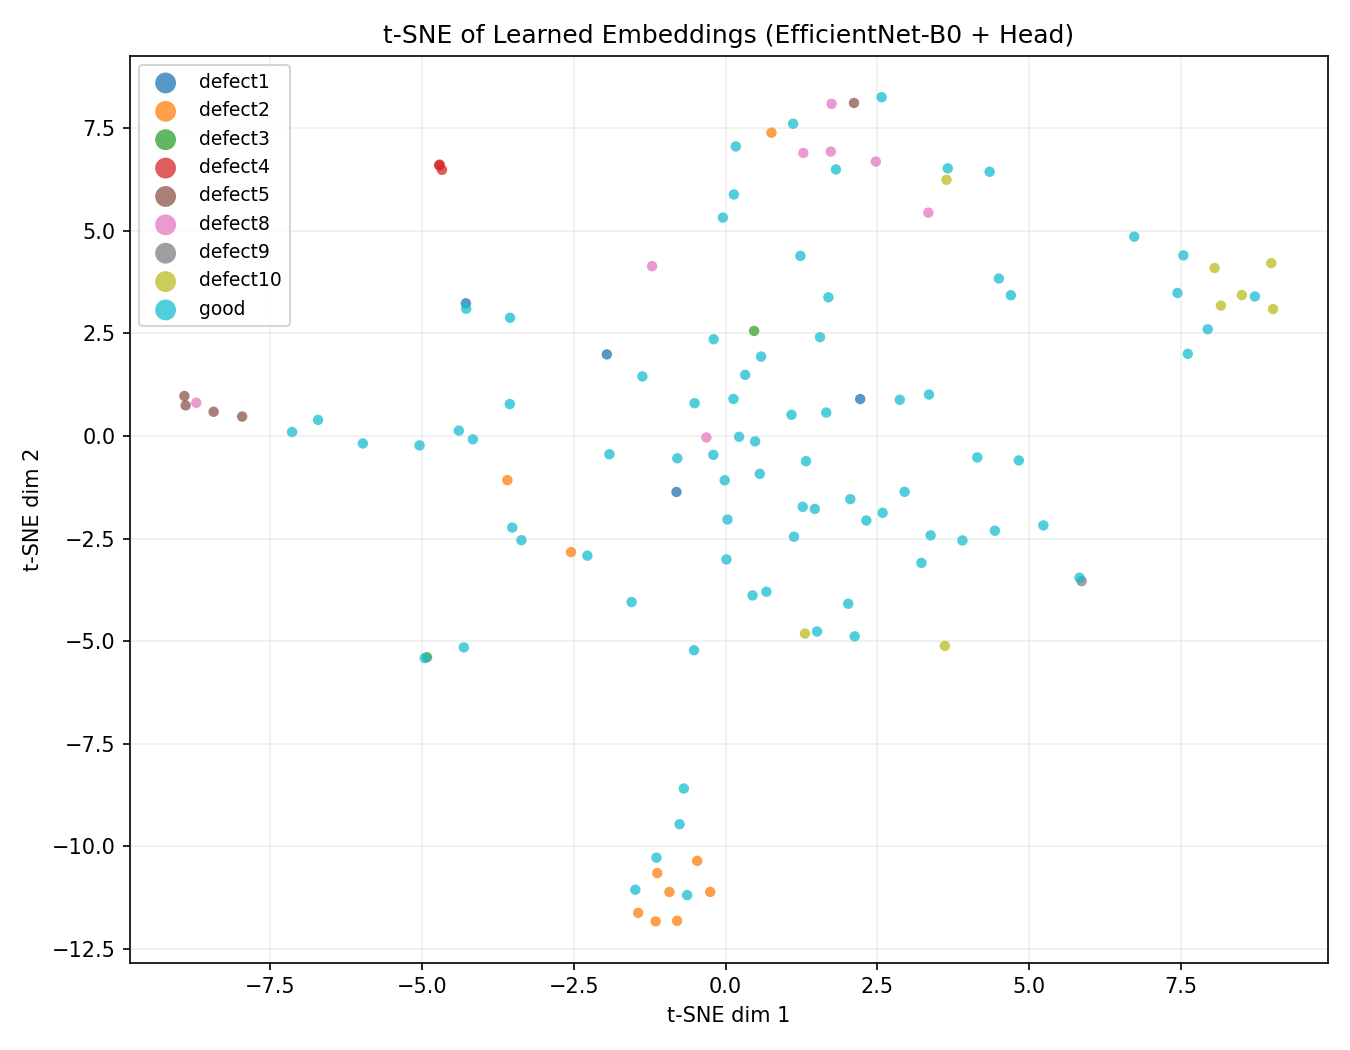
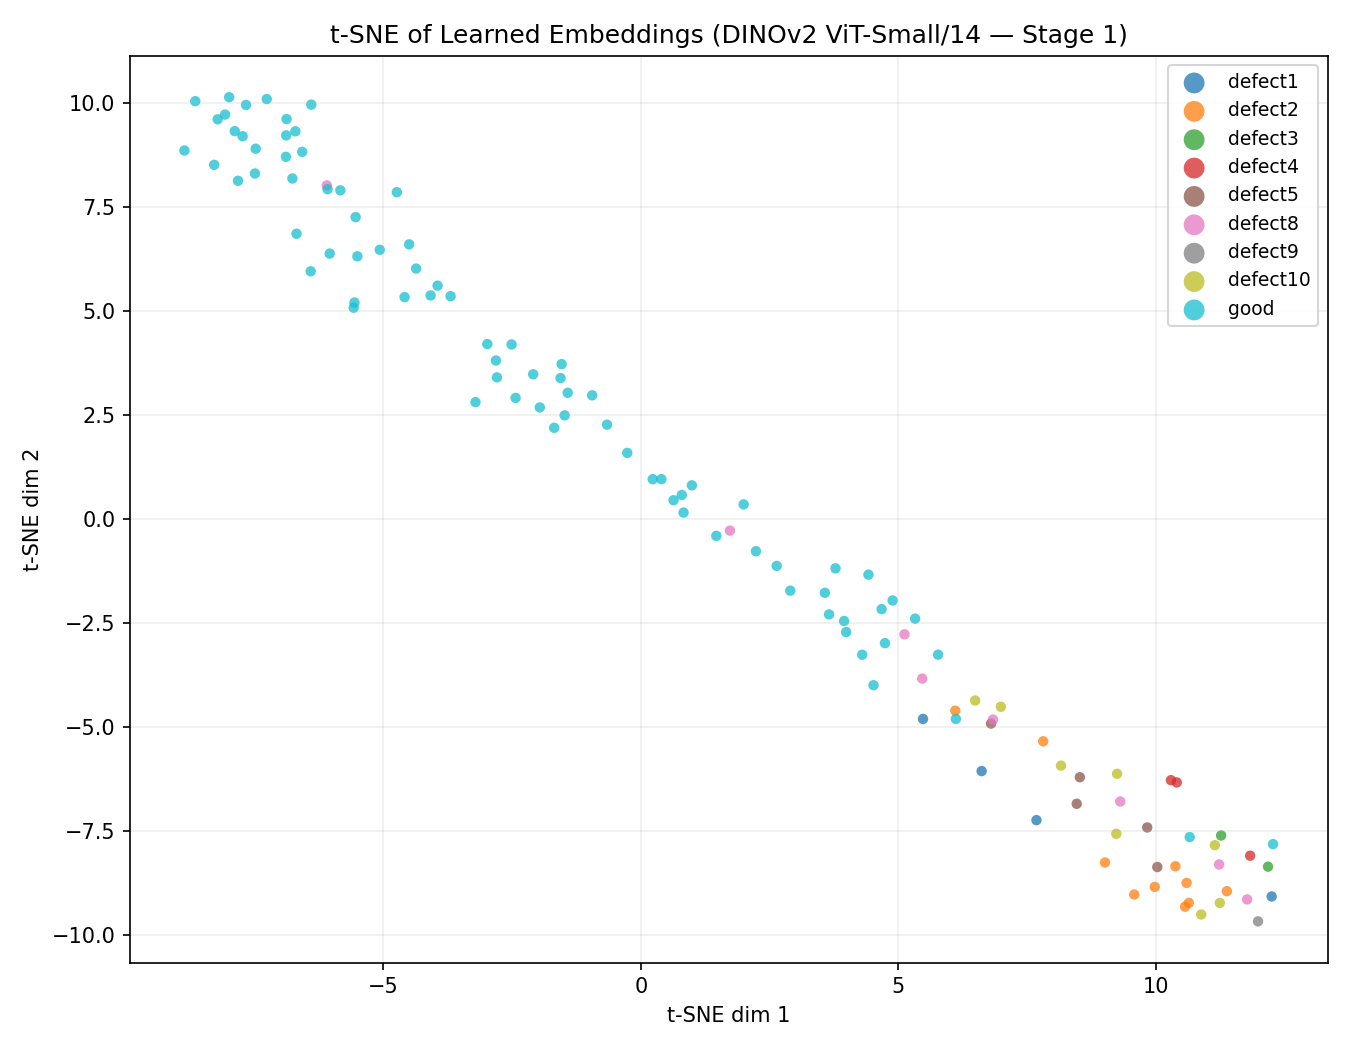
Regenerate all evaluation plots from DINOv2 cascade model
evaluate.py: add --cascade and --no-tta flags. New cascade path loads
model_stage1.pth + model_stage2.pth, reproduces exact train val split,
runs two-stage inference with optional 8x TTA, and builds probability
matrix for ROC curves. Auto-detects backbone (DINOv2/ViT/EfficientNet)
from checkpoint key names.

plots 2–6 and metrics.json now reflect DINOv2 cascade results
(87.43% overall, 0.8808 balanced) — previously showed stale
EfficientNet single-model outputs.

diff --git a/solution/evaluate.py b/solution/evaluate.py
@@ -4,7 +4,7 @@ evaluate.py  –  Full evaluation suite
                 ASU / Intel Semiconductor Solutions Challenge 2026
 
 Produces all competition deliverable plots:
-  plot1_training_history.png          (training curves)
+  plot1_training_history.png          (training curves — single model only)
   plot2_confusion_matrix.png          (normalised confusion matrix)
   plot3_class_accuracy_vs_occurrence.png (deliverable 2)
   plot4_few_shot_learning_curve.png   (deliverable 4)
@@ -13,8 +13,10 @@ Produces all competition deliverable plots:
 
 Usage
 ─────
-  python evaluate.py                         # uses default checkpoint + dataset
+  python evaluate.py                             # single EfficientNet model
   python evaluate.py --checkpoint output/model_best.pth
+  python evaluate.py --cascade                   # DINOv2 two-stage cascade (best)
+  python evaluate.py --cascade --no-tta          # cascade without TTA (faster)
 """
 
 import sys, random, json
@@ -42,13 +44,22 @@ sys.path.insert(0, str(Path(__file__).parent))
 from model import DefectClassifier, compute_prototypes, EMBED_DIM
 
 # ─────────────────────────────────────────────────────────────────────────────
-DATASET_DIR = Path(__file__).parent.parent / "Dataset"
-CHECKPOINT  = Path(__file__).parent / "output" / "model_best.pth"
-OUTPUT_DIR  = Path(__file__).parent / "output"
-IMG_SIZE    = 224
-SEED        = 42
+DATASET_DIR  = Path(__file__).parent.parent / "Dataset"
+CHECKPOINT   = Path(__file__).parent / "output" / "model_best.pth"
+CKPT_STAGE1  = Path(__file__).parent / "output" / "model_stage1.pth"
+CKPT_STAGE2  = Path(__file__).parent / "output" / "model_stage2.pth"
+OUTPUT_DIR   = Path(__file__).parent / "output"
+IMG_SIZE     = 224
+SEED         = 42
 _MEAN = [0.485, 0.456, 0.406]
 _STD  = [0.229, 0.224, 0.225]
+
+# Class ordering used by the cascade (matches train_cascade.py)
+_CASCADE_CLASSES  = ["defect1", "defect2", "defect3", "defect4", "defect5",
+                     "defect8", "defect9", "defect10", "good"]
+_DEFECT_CLASSES   = [c for c in _CASCADE_CLASSES if c != "good"]
+_GOOD_IDX_ALL     = _CASCADE_CLASSES.index("good")   # 8
+_DEFECT_IDX_BIN   = 1                                  # Stage 1: good=0, defective=1
 
 random.seed(SEED); np.random.seed(SEED); torch.manual_seed(SEED)
 
@@ -65,6 +76,137 @@ class SimpleDataset(Dataset):
     def __getitem__(self, i):
         p, l = self.samples[i]
         return self.tf(Image.open(p).convert("RGB")), l
+
+
+def _make_tta_transforms():
+    """8 deterministic TTA variants: 4 rotations × 2 flips (matches classify.py)."""
+    variants = []
+    for angle in [0, 90, 180, 270]:
+        for flip in [False, True]:
+            ops = [transforms.Resize((IMG_SIZE, IMG_SIZE))]
+            if angle:
+                ops.append(transforms.Lambda(lambda img, a=angle: img.rotate(a)))
+            if flip:
+                ops.append(transforms.RandomHorizontalFlip(p=1.0))
+            ops.extend([transforms.ToTensor(), transforms.Normalize(_MEAN, _STD)])
+            variants.append(transforms.Compose(ops))
+    return variants
+
+
+def _auto_load_model(num_classes, state_dict, device):
+    """Detect backbone from checkpoint key names and load the correct model class."""
+    keys = "".join(state_dict.keys())
+    if "backbone.cls_token" in keys:
+        if "backbone.blocks.0.ls1" in keys:
+            from model_dinov2 import DINOv2DefectClassifier
+            m = DINOv2DefectClassifier(num_classes, EMBED_DIM).to(device)
+        else:
+            from model_vit import ViTDefectClassifier
+            m = ViTDefectClassifier(num_classes, EMBED_DIM, mae_ckpt=None).to(device)
+    else:
+        m = DefectClassifier(num_classes, EMBED_DIM).to(device)
+    m.load_state_dict(state_dict)
+    m.eval()
+    return m
+
+
+def load_cascade_and_data(stage1_path=CKPT_STAGE1, stage2_path=CKPT_STAGE2):
+    """Load Stage 1 + Stage 2 cascade models and reproduce the training val split."""
+    device = torch.device("cuda" if torch.cuda.is_available() else "cpu")
+
+    ckpt1 = torch.load(stage1_path, map_location=device, weights_only=False)
+    model1 = _auto_load_model(2, ckpt1["model_state"], device)
+    threshold = ckpt1.get("threshold", 0.65)
+
+    ckpt2 = torch.load(stage2_path, map_location=device, weights_only=False)
+    model2 = _auto_load_model(len(_DEFECT_CLASSES), ckpt2["model_state"], device)
+    prototypes = ckpt2["prototypes"].to(device)
+
+    # Rebuild dataset with ALL_CLASSES ordering from train_cascade.py
+    all_samples = []
+    for cls in _CASCADE_CLASSES:
+        d = DATASET_DIR / cls
+        if not d.exists():
+            continue
+        lbl = _CASCADE_CLASSES.index(cls)
+        for f in d.iterdir():
+            if f.suffix.upper() in {".PNG", ".JPG", ".JPEG"}:
+                all_samples.append((str(f), lbl))
+
+    paths, labels = zip(*all_samples)
+    _, va_p, _, va_l = train_test_split(
+        paths, labels, test_size=0.2, stratify=labels, random_state=SEED
+    )
+    val_samples = list(zip(va_p, va_l))
+
+    print(f"Device: {device}  |  Stage 1 threshold: {threshold:.2f}")
+    print(f"All samples: {len(all_samples)}  |  Val set: {len(val_samples)}")
+    return model1, model2, threshold, prototypes, device, val_samples, all_samples
+
+
+@torch.no_grad()
+def predict_all_cascade(model1, model2, threshold, prototypes, val_samples, device, use_tta=True):
+    """Two-stage cascade prediction.  Returns (true_l, pred_l, probs [N x 9])."""
+    tta_transforms = _make_tta_transforms() if use_tta else None
+    val_tf = transforms.Compose([
+        transforms.Resize((IMG_SIZE, IMG_SIZE)),
+        transforms.ToTensor(),
+        transforms.Normalize(_MEAN, _STD),
+    ])
+    n_classes = len(_CASCADE_CLASSES)
+    all_true, all_pred, all_probs = [], [], []
+
+    for img_path, true_lbl in val_samples:
+        img_pil = Image.open(img_path).convert("RGB")
+
+        # Stage 1 — TTA-averaged defect probability
+        if use_tta:
+            dp_list = []
+            for tf in tta_transforms:
+                img_t = tf(img_pil).unsqueeze(0).to(device)
+                logits1, _ = model1(img_t)
+                dp_list.append(F.softmax(logits1, dim=1)[0, _DEFECT_IDX_BIN].item())
+            defect_prob = float(np.mean(dp_list))
+        else:
+            img_t = val_tf(img_pil).unsqueeze(0).to(device)
+            logits1, _ = model1(img_t)
+            defect_prob = F.softmax(logits1, dim=1)[0, _DEFECT_IDX_BIN].item()
+
+        # Build full probability vector (for ROC curves)
+        probs = np.zeros(n_classes)
+
+        if defect_prob < threshold:
+            pred = _GOOD_IDX_ALL
+            probs[_GOOD_IDX_ALL] = 1.0 - defect_prob
+            for j in range(n_classes):
+                if j != _GOOD_IDX_ALL:
+                    probs[j] = defect_prob / len(_DEFECT_CLASSES)
+        else:
+            # Stage 2 — TTA-averaged embedding → cosine similarity → prototype
+            if use_tta:
+                emb_list = []
+                for tf in tta_transforms:
+                    img_t = tf(img_pil).unsqueeze(0).to(device)
+                    emb_list.append(model2.get_embedding(img_t))
+                embed2 = F.normalize(torch.stack(emb_list).mean(0), dim=1)
+            else:
+                img_t = val_tf(img_pil).unsqueeze(0).to(device)
+                embed2 = model2.get_embedding(img_t)
+
+            sims = torch.mm(embed2, prototypes.T).squeeze(0)   # (8,)
+            stage2_probs = F.softmax(sims * 10, dim=0).cpu().numpy()
+            defect_pred_idx = int(sims.argmax().item())
+            pred = _CASCADE_CLASSES.index(_DEFECT_CLASSES[defect_pred_idx])
+
+            probs[_GOOD_IDX_ALL] = 1.0 - defect_prob
+            for i, dc in enumerate(_DEFECT_CLASSES):
+                probs[_CASCADE_CLASSES.index(dc)] = defect_prob * float(stage2_probs[i])
+
+        all_true.append(true_lbl)
+        all_pred.append(pred)
+        all_probs.append(probs)
+
+    return np.array(all_true), np.array(all_pred), np.vstack(all_probs)
 
 
 def tau_normalize(model, tau: float = 0.5):
@@ -250,7 +392,7 @@ def plot_roc_curves(true_l, probs, classes, out):
     plt.savefig(p, dpi=150); plt.close(); print(f"Saved: {p}")
 
 
-def plot_tsne(model, val_samples, classes, device, out, max_per_class=80):
+def plot_tsne(model, val_samples, classes, device, out, max_per_class=80, title_suffix=""):
     """t-SNE of learned embeddings — shows how well classes are separated."""
     try:
         from sklearn.manifold import TSNE
@@ -291,7 +433,7 @@ def plot_tsne(model, val_samples, classes, device, out, max_per_class=80):
         if mask.any():
             ax.scatter(coords[mask, 0], coords[mask, 1],
                        color=cmap(i), label=cls, s=25, alpha=0.75, edgecolors="none")
-    ax.set(title="t-SNE of Learned Embeddings (EfficientNet-B0 + Head)",
+    ax.set(title=f"t-SNE of Learned Embeddings{title_suffix}",
            xlabel="t-SNE dim 1", ylabel="t-SNE dim 2")
     ax.legend(markerscale=2, fontsize=9); ax.grid(alpha=.2)
     plt.tight_layout()
@@ -372,30 +514,60 @@ def plot_few_shot_learning_curve(model, all_samples, classes, class2idx, device,
 def main():
     import argparse
     ap = argparse.ArgumentParser()
-    ap.add_argument("--checkpoint", default=str(CHECKPOINT))
+    ap.add_argument("--checkpoint", default=str(CHECKPOINT),
+                    help="Single-model checkpoint (ignored when --cascade is set)")
+    ap.add_argument("--cascade", action="store_true",
+                    help="Use two-stage cascade (model_stage1.pth + model_stage2.pth)")
+    ap.add_argument("--no-tta", action="store_true",
+                    help="Disable test-time augmentation for cascade mode (faster)")
     args = ap.parse_args()
 
     OUTPUT_DIR.mkdir(parents=True, exist_ok=True)
 
-    print("Loading model and data …")
-    model, classes, class2idx, protos, device, val_samples, all_samples, history, log_prior = \
-        load_model_and_data(Path(args.checkpoint))
+    if args.cascade:
+        # ── Cascade path (DINOv2 two-stage) ─────────────────────────────────
+        print("Loading DINOv2 two-stage cascade …")
+        model1, model2, threshold, prototypes, device, val_samples, all_samples = \
+            load_cascade_and_data()
 
-    print(f"Val set size: {len(val_samples)}")
-    print("\nRunning predictions …")
-    true_l, pred_l, probs = predict_all(model, val_samples, protos, device, classes, log_prior)
+        use_tta = not args.no_tta
+        print(f"\nRunning cascade predictions (TTA={'8×' if use_tta else 'off'}) …")
+        print("  (this may take several minutes with TTA on CPU)")
+        true_l, pred_l, probs = predict_all_cascade(
+            model1, model2, threshold, prototypes, val_samples, device, use_tta=use_tta
+        )
+        classes = _CASCADE_CLASSES
+        class2idx = {c: i for i, c in enumerate(classes)}
+        history = {}   # no combined history for cascade
+        # t-SNE and few-shot use model1 (trained on all classes incl. "good")
+        tsne_model = model1
+        tsne_title_suffix = " (DINOv2 ViT-Small/14 — Stage 1)"
+
+    else:
+        # ── Single-model path (EfficientNet baseline) ────────────────────────
+        print("Loading model and data …")
+        model, classes, class2idx, protos, device, val_samples, all_samples, history, log_prior = \
+            load_model_and_data(Path(args.checkpoint))
+        print(f"Val set size: {len(val_samples)}")
+        print("\nRunning predictions …")
+        true_l, pred_l, probs = predict_all(model, val_samples, protos, device, classes, log_prior)
+        tsne_model = model
+        tsne_title_suffix = " (EfficientNet-B0 + Head)"
 
     # ── Console summary ───────────────────────────────────────────────────────
     print("\n── Classification Report ──────────────────────────────────────")
     print(classification_report(true_l, pred_l, target_names=classes, digits=3))
     ba = balanced_accuracy_score(true_l, pred_l)
     f1 = f1_score(true_l, pred_l, average="macro")
+    overall_acc = (true_l == pred_l).mean()
+    print(f"  Overall accuracy  : {overall_acc:.4f}")
     print(f"  Balanced accuracy : {ba:.4f}")
     print(f"  Macro F1          : {f1:.4f}")
 
     # ── Save metrics JSON ────────────────────────────────────────────────────
     p_rec_f1_sup = precision_recall_fscore_support(true_l, pred_l, labels=list(range(len(classes))))
     metrics = {
+        "overall_accuracy":  round(float(overall_acc), 4),
         "balanced_accuracy": round(ba, 4),
         "macro_f1":          round(f1, 4),
         "per_class": {
@@ -420,9 +592,10 @@ def main():
     plot_class_accuracy_vs_occurrence(true_l, pred_l, classes, all_samples, OUTPUT_DIR)
     plot_roc_curves(true_l, probs, classes, OUTPUT_DIR)
     print("\nGenerating t-SNE (may take 1–2 min on CPU) …")
-    plot_tsne(model, val_samples, classes, device, OUTPUT_DIR)
+    plot_tsne(tsne_model, val_samples, classes, device, OUTPUT_DIR,
+              title_suffix=tsne_title_suffix)
     print("\nGenerating few-shot learning curve …")
-    plot_few_shot_learning_curve(model, all_samples, classes, class2idx, device, OUTPUT_DIR)
+    plot_few_shot_learning_curve(tsne_model, all_samples, classes, class2idx, device, OUTPUT_DIR)
 
     print(f"\nAll evaluation outputs saved to {OUTPUT_DIR.resolve()}")
 
